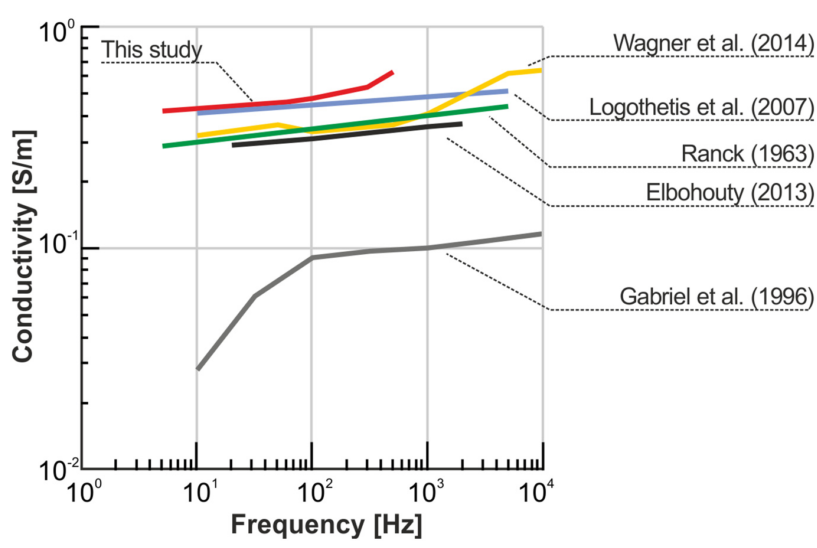
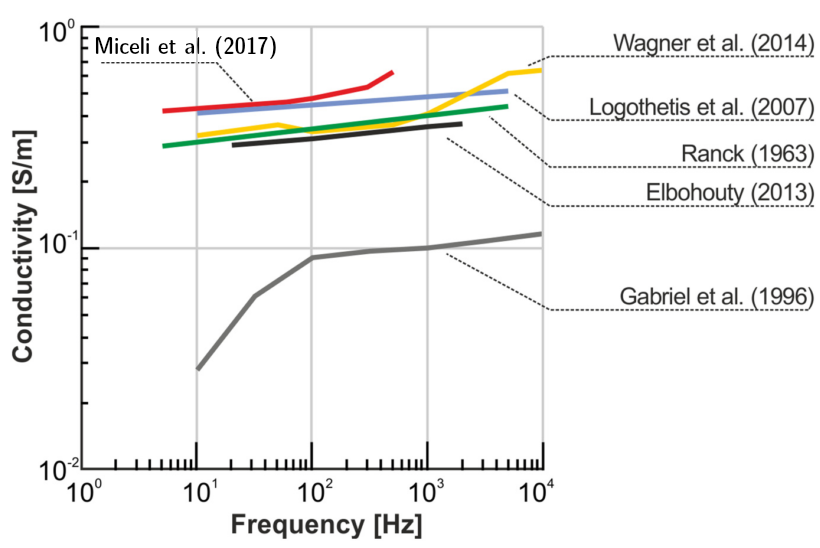
Worked on MUA text

diff --git a/ECS_bookchapter.tex b/ECS_bookchapter.tex
@@ -333,9 +333,9 @@ The formula in eq. \ref{eq:VCtheory} (or the line-source version of it) represen
 
 \item {\bf Quasi-static approximation of Maxwell's equations:} Terms with time derivative of the electrical and magnetic fields are neglected. This approximation appears to be well-justified for the relatively low frequencies relevant for brain signals, below about 10 kHz \citep{Nunez2006}.
 
-\item {\bf Linear extracellular medium:} Linear relationship ($\bf{I} = -\sigma {\nabla \phi}$) between the current density ${\bf I}$\tvnnote{I would have preferred J to mean current density and I total currents. Will this make things messy other places?} \ghnote{Maybe it messes things up, since I used $J_k$ for fluxes earlier.} \tvnnote{Hmm, im my mind current density and flux was the same thing?} and the electrical field, $\nabla \phi$. This is essentially Ohm's law for volume conductors, and the relation is constitutive, meaning that it is observed in nature rather than derived from any physical principle \citep{Nunez2006, Pettersen2012}.
+\item {\bf Linear extracellular medium:} Linear relationship ($\bf{I} = -\sigma {\nabla \phi}$) between the current density ${\bf I}$\tvnnote{I would have preferred J to mean current density and I total currents. Will this make things messy other places?} \ghnote{Maybe it messes things up, since I used $J_k$ for fluxes earlier.} and the electrical field, $\nabla \phi$. This is essentially Ohm's law for volume conductors, and the relation is constitutive, meaning that it is observed in nature rather than derived from any physical principle \citep{Nunez2006, Pettersen2012}.
 
-\item {\bf Frequency independent conductivity:} Capacitive effects in neural tissue are assumed to be negligible compared to resistive effects in volume conduction. This approximation seems to be justified for the relevant frequencies in extracellular recordings \cite{Logothetis2007, Miceli2017, Ranta2017}, but it is possible to expand the formalism to include a frequency dependent conductivity \citep{Tracey2011, Miceli2017}. See Fig.~\ref{fig:freq_dep}.
+\item {\bf Frequency independent conductivity:} Capacitive effects in neural tissue are assumed to be negligible compared to resistive effects in volume conduction. This approximation seems to be justified for the relevant frequencies in extracellular recordings \citep{Logothetis2007, Miceli2017, Ranta2017}, see Fig.~\ref{fig:freq_dep}. Note that it is possible to expand the formalism to include a frequency dependent conductivity \citep{Tracey2011, Miceli2017}. 
 
 \item {\bf Isotropic conductivity:} The electrical conductivity, $\sigma$, was assumed to be the same in all spatial directions. This is mostly an acceptable approximation, but it is also possible to expand the formalism to account for an anisotropic conductivities \citep{Ness2015}. \ghnote{Referere til et senere kapittel der vi bruker dette.}
 
@@ -352,7 +352,8 @@ The formula in eq. \ref{eq:VCtheory} (or the line-source version of it) represen
 \includegraphics[width=0.6\textwidth]{frequency_dependence}
 \end{center}
 \caption{\textbf{Literature review of reported conductivities in various species and experimental setups.} 
-Gabriel et al. (1996): data from bovine brains recorded with a two-electrode setup. Elbohouty (2013): data recorded in vitro in slices of mouse cerebral cortex with a two-electrode setup. Logothetis et al. (2007): data from monkey recorded with a four-electrode setup. The average conductivity value, 0.405 S/m, combined with the reported increase of $\sim$25\%. Wagner et al. (2014): recordings from cat cerebral cortex with a two-electrode setup, which was similar to the setup used by Gabriel et al. (1996). Ranck (1963): data from rabbit brain.
+Most studies seem to indicate a very weak frequency dependence of the extracellular conductivity, which would have a negligible effect on measured extracellular potentials \citep{Miceli2017}. The very low and strongly frequency dependent values measured by \cite{Gabriel1996} represents an outlier, and although it has received substantial attention, it has to the best of our knowledge not been reproduced by any other study.
+For details about the data, see \citep{Miceli2017}, and references therein \citep{Ranck1963, Gabriel1996, Logothetis2007, Elbohouty2013, Wagner2014}
 }
 \label{fig:freq_dep}
 \end{figure}
@@ -416,24 +417,30 @@ The low frequency part, that is, the local field potential (LFP), is thought to 
 \subsection{Local field potentials}
 \tvnnote{Find place to put sentence or two on importance of correlation.}
 The LFP is the low-frequency part ($\lesssim$ 500~Hz) of the extracellular potentials, and it is among the oldest and most used brain signals in neuroscience \citep{Einevoll2013}. The LFP is expected to be dominated by large numbers of synaptic inputs to populations of geometrically aligned neurons \citep{Nunez2006, Linden2011, Einevoll2013b}.
-In cortex and hippocampus, neuron can broadly speaking be divided into two main classes: the inhibitory interneurons, and the excitatory pyramidal neurons. Pyramidal neurons typically have a clear axis of orientation, that is, the apical dendrites of close-by pyramidal neurons tend to be oriented in the same direction (Fig.~\ref{fig:LFP_MUA}A). This geometrical alignment is important because the LFP contributions from the individual pyramidal cells also align and therefore sum constructively \ghnote{Litt forvirrende setning, dette her}\tvnnote{Hva med naa?}.  For example, basal excitatory synaptic input generates a current sink and corresponding negative LFP deflection in the basal region, and simultaneously a current source and corresponding positive LFP deflection in the apical region, while apical excitatory synaptic input leads to the reversed pattern (Fig.~\ref{fig:LFP_MUA}D). 
-Importantly, this means that excitatory input that simultaneously targets both the apical and the basal dendrite will give opposite source/sink patterns which will lead to substantial cancellation in the LFP (Fig.~\ref{fig:LFP_MUA}D; but see also \cite{Ness2018}).
-The same arguments also applies to inhibitory synaptic inputs, with the signs of the currents reversed. 
+In cortex and hippocampus, neuron can broadly speaking be divided into two main classes: the inhibitory interneurons, and the excitatory pyramidal neurons. Pyramidal neurons typically have a clear axis of orientation, that is, the apical dendrites of close-by pyramidal neurons tend to be oriented in the same direction (Fig.~\ref{fig:LFP_MUA}A). This geometrical alignment is important because the LFP contributions from the individual pyramidal cells also align and therefore sum constructively \ghnote{Litt forvirrende setning, dette her}\tvnnote{Hva med naa?}.  For example, basal excitatory synaptic input (Fig.~\ref{fig:LFP_MUA}B, time marked by red line) generates a current sink and corresponding negative LFP deflection in the basal region, and simultaneously a current source and corresponding positive LFP deflection in the apical region (Fig.~\ref{fig:LFP_MUA}D, time marked by red line), while apical excitatory synaptic input leads to the reversed pattern (Fig.~\ref{fig:LFP_MUA}B,D, time marked by blue line). 
+Importantly, this means that excitatory input that simultaneously targets both the apical and the basal dendrite will give opposite source/sink patterns which will lead to substantial cancellation and a weak LFP contribution (Fig.~\ref{fig:LFP_MUA}B, D, time marked by orange line).
+The same arguments also applies to inhibitory synaptic inputs, with the signs of the currents and LFPs reversed. 
 
 Note that, for example, the LFP signature of apical excitatory synaptic input is inherently similar to that of basal inhibitory input, and indeed, separating between cases like this pose a real challenge in interpreting LFP signals \citep{Linden2010}. 
 
 In contrast to pyramidal neurons, interneurons often lack any clear orientational specificity, meaning that the current dipoles do not align, leading to negligible contribution to LFP signals, except indirectly through giving synaptic input to pyramidal cells \citep{Hagen2016, Telenczuk2016}.
 
-It has been demonstrated that correlations among the synaptic inputs to pyramidal cells can amplify the LFP signal power by orders of magnitude \citep{Linden2011, Leski2013}
+It has been demonstrated that correlations among the synaptic inputs to pyramidal cells can amplify the LFP signal power by orders of magnitude \citep{Linden2011, Leski2013}.
 
 Although the LFP is believed to predominantly reflect synaptic inputs, active conductances may also contribute to its shaping. Especially slower conductances may play a key role in this, such as long-lasting after-hyperpolarization currents \cite{Reimann2013}, calcium spikes \cite{Suzuki2017}, or the hyperpolarization-activated cation channel I$_{\rm h}$ \cite{Ness2016, Ness2018}. Action potentials are typically expected to contribute little to cortical LFP signals for several reasons \citep{Einevoll2013, Haider2016}, for example, their very short duration with both positive and negative phases (Fig.~\ref{fig:EP_morph}E) would require extreme synchrony to sum constructively in the LFP, and their high frequency content is to a large degree removed from LFPs during low-pass filtering. Note however, that in the hippocampus the highly synchronized spikes found during sharp wave ripples are expected to strongly shape the LFP \citep{Schomburg2012, Luo2018}. 
 
 \subsection{MUA}
-While LFPs are thought to mainly reflect the synaptic input to large populations, the multi-unit activity (MUA) can be used to probe the population spiking activity \citep{Pettersen2008}. This can be usefull, as some cell-types, like stellate cells and interneurons are expected to have very weak LFP contributions, but might still be measureable through their spiking activity.
-MUA can be used in combination with LFP to estimate the population dynamics, as for example in Laminar Population Analysis \citep{Einevoll2007, Blomquist2009}.
-\tvnnote{Not sure what to say about MUA. Could make illustration figures similar to those from Pettersen, Hagen, Einevoll (2008)?} 
+While LFPs are thought to mainly reflect the synaptic input to large populations of pyramidal neurons, the multi-unit activity (MUA) can be used to probe the population spiking activity \citep{Pettersen2008}. This can be useful, as some cell-types, like stellate cells and interneurons are expected to have very weak LFP contributions \citep{Linden2011}, but might still be measureable through their spiking activity. Similarly, spatially uniformly distributed synaptic input to pyramidal neurons results in a negligible LFP contribution (Fig.~\ref{fig:LFP_MUA}C, time marked by orange line), while the population might still contribute substantially to the MUA through the extracellular action potentials (Fig.~\ref{fig:LFP_MUA}E-F, time marked by orange line).
 
+Since MUAs and LFPs reflect different aspects of neural activity, they can be used in combination to gain additional insights, as is for example done in Laminar Population Analysis \citep{Einevoll2007, Blomquist2009}.
+
+%%%%%%%%%%%%%%%%%%%%%%%%%%%%%%%%%%%%%%
+%%%%%%%%%%%%%%%%%%%%%%%%%%%%%%%%%%%%%%
+%%%%%%%%%%%%%%%%%%%%%%%%%%%%%%%%%%%%%%
 \section{ECoG and EEG}
+%%%%%%%%%%%%%%%%%%%%%%%%%%%%%%%%%%%%%%
+%%%%%%%%%%%%%%%%%%%%%%%%%%%%%%%%%%%%%%
+%%%%%%%%%%%%%%%%%%%%%%%%%%%%%%%%%%%%%%
 \label{sec:EEG}
 LFP signals are measured inside different brain structures, in the immediate vicinity of the current sources that are causing the LFP signals. A disadvantage with this is that it is invasive, in the sense that electrodes must be inserted into the brain tissue which can only be done in humans when there is a clear medical need, like for patients with intractable epilepsy [cite]. However, the current sources that are causing the LFP signals are also causing measurable electrical signals at the brain surface, electrocorticography (ECoG), and outside of the head, called electroencephalograpy (EEG) (Fig.~\ref{fig:multimodal}).
 
@@ -497,7 +504,7 @@ This chapter concerns modelling of extracellular potentials, but the same approa
 \subsection*{Magnetoencephalograpy (MEG)}
 MEG are expected to originate from the same process at LFP, ECoG and EEG signals (Fig.~\ref{fig:multimodal}), that is, synaptic input
 to geometically aligned populations of pyramidal neurons, but
-is a measure of magnetic instead of electric fields \citep{Hamalainen1993}, and because of the nature of magnetic fields, MEG is most sensitive to populations that are tangential to the head surface, instead of radial (see Fig. \ref{fig:LFP_EEG}D). Except for this difference, much of what is said about electric signals also applies to the magnetic signals.
+is a measure of magnetic instead of electric fields \citep{Hamalainen1993}, and because of the nature of magnetic fields, MEG is most sensitive to populations that are tangential to the head surface, instead of radial (see Fig. \ref{fig:EEG_MEG}). Except for this difference, much of what is said about electric signals also applies to the magnetic signals.
 \subsection*{Voltage-sensitive dye imaging}
 In principle easy to model, just area-weighted membrane potential
 \subsection*{Calcium imaging}
